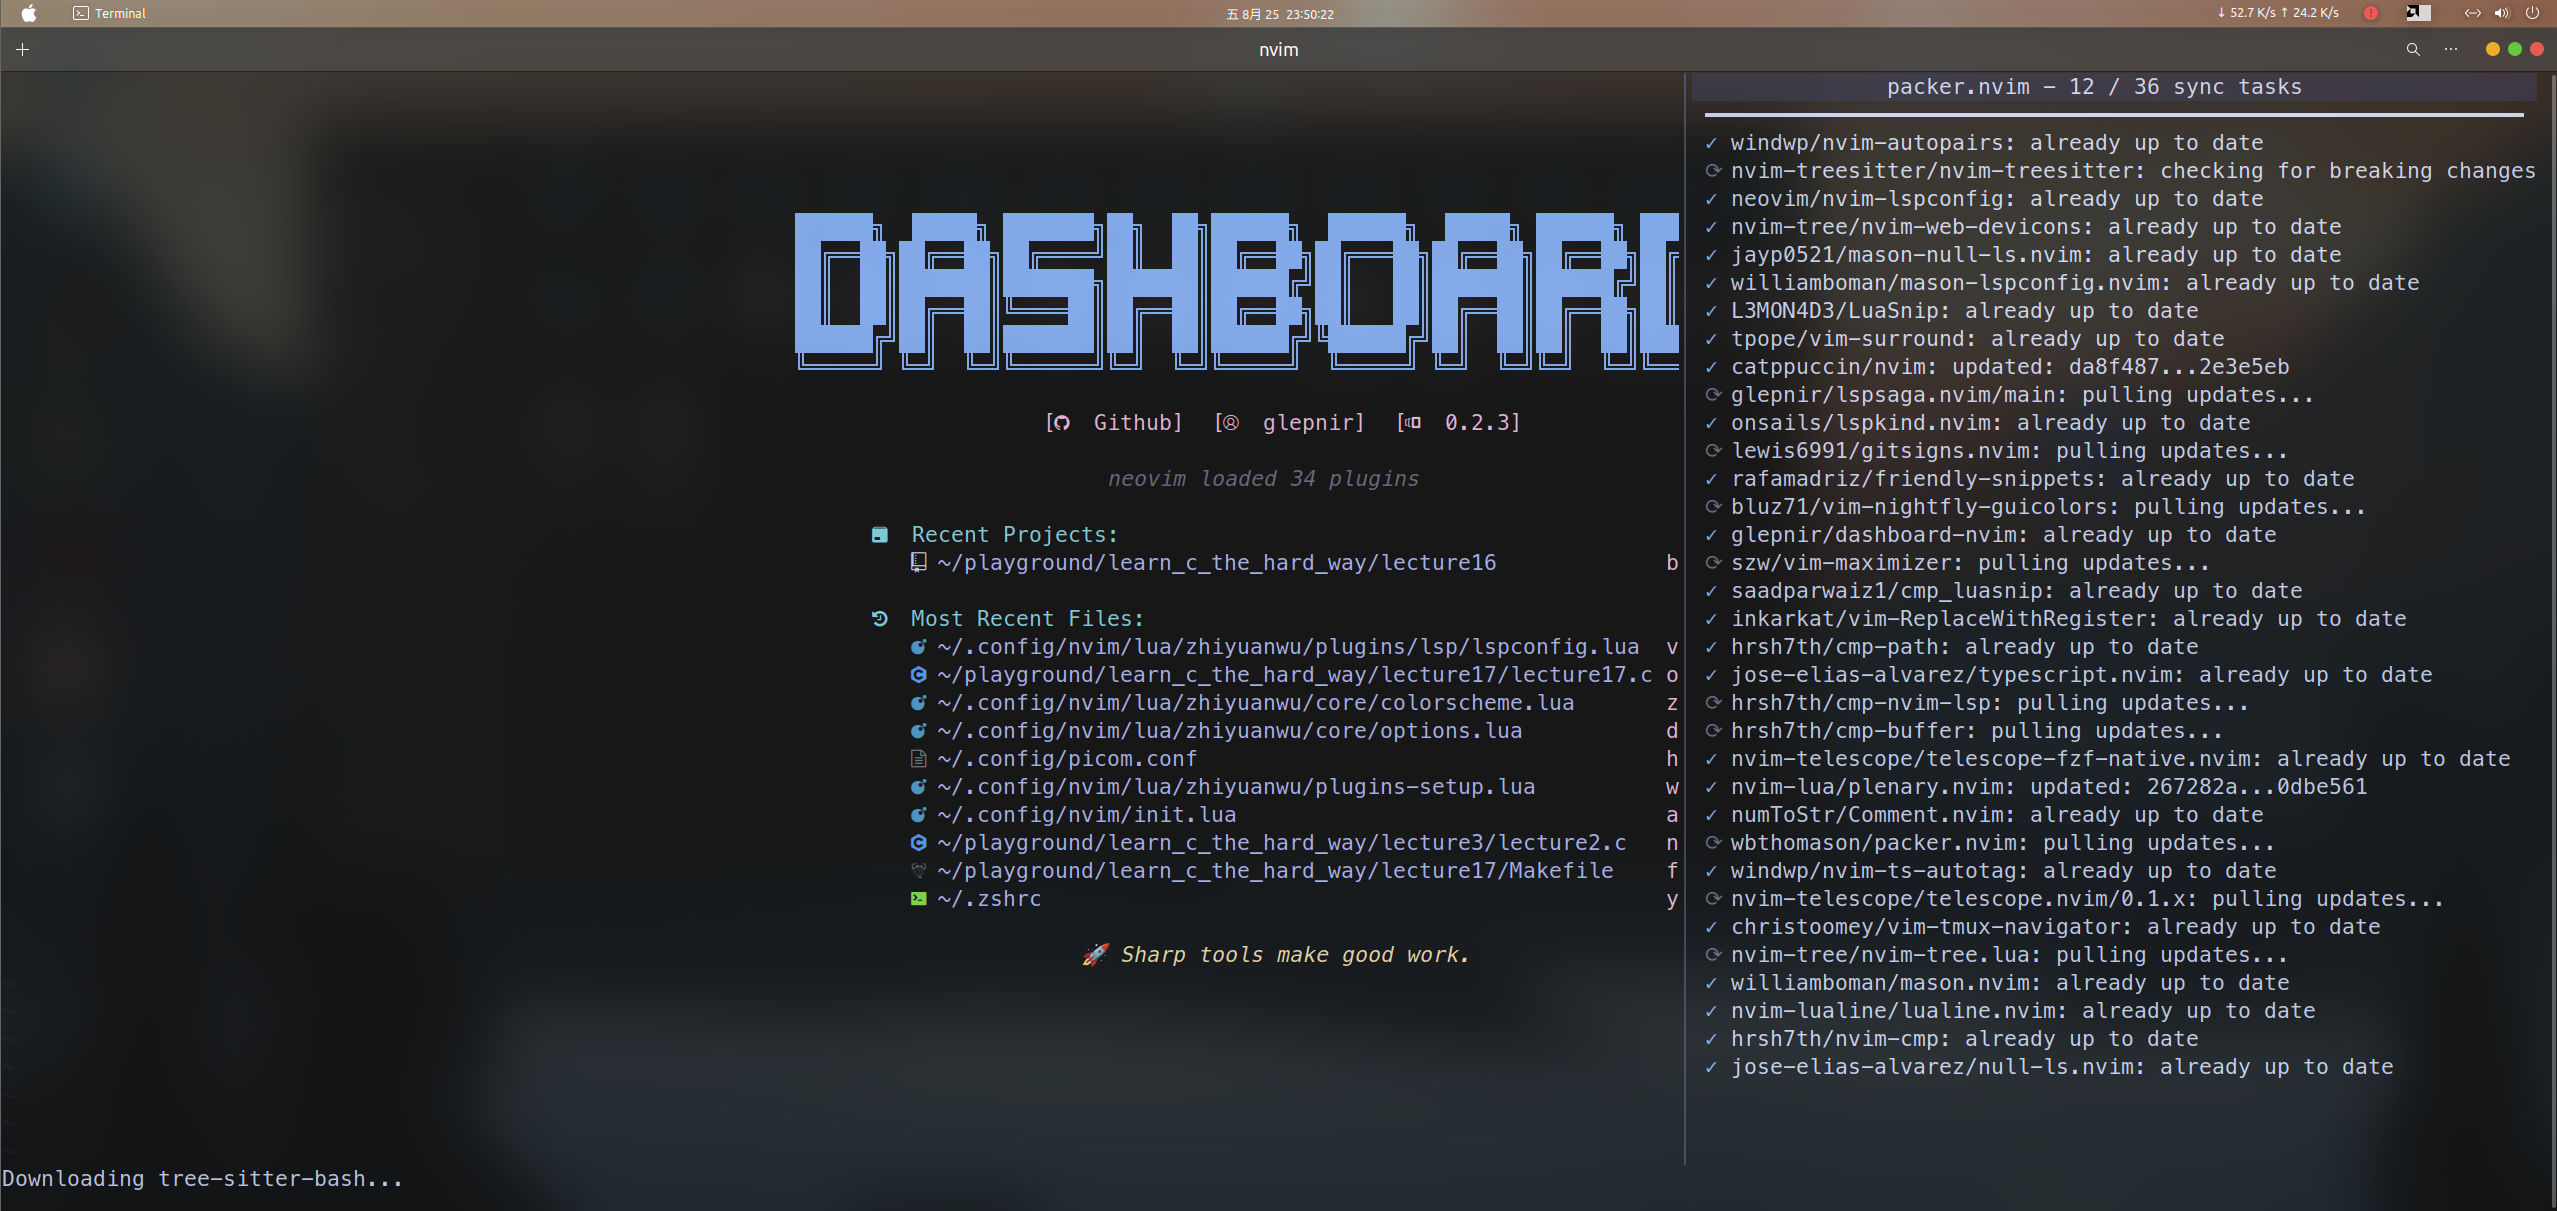
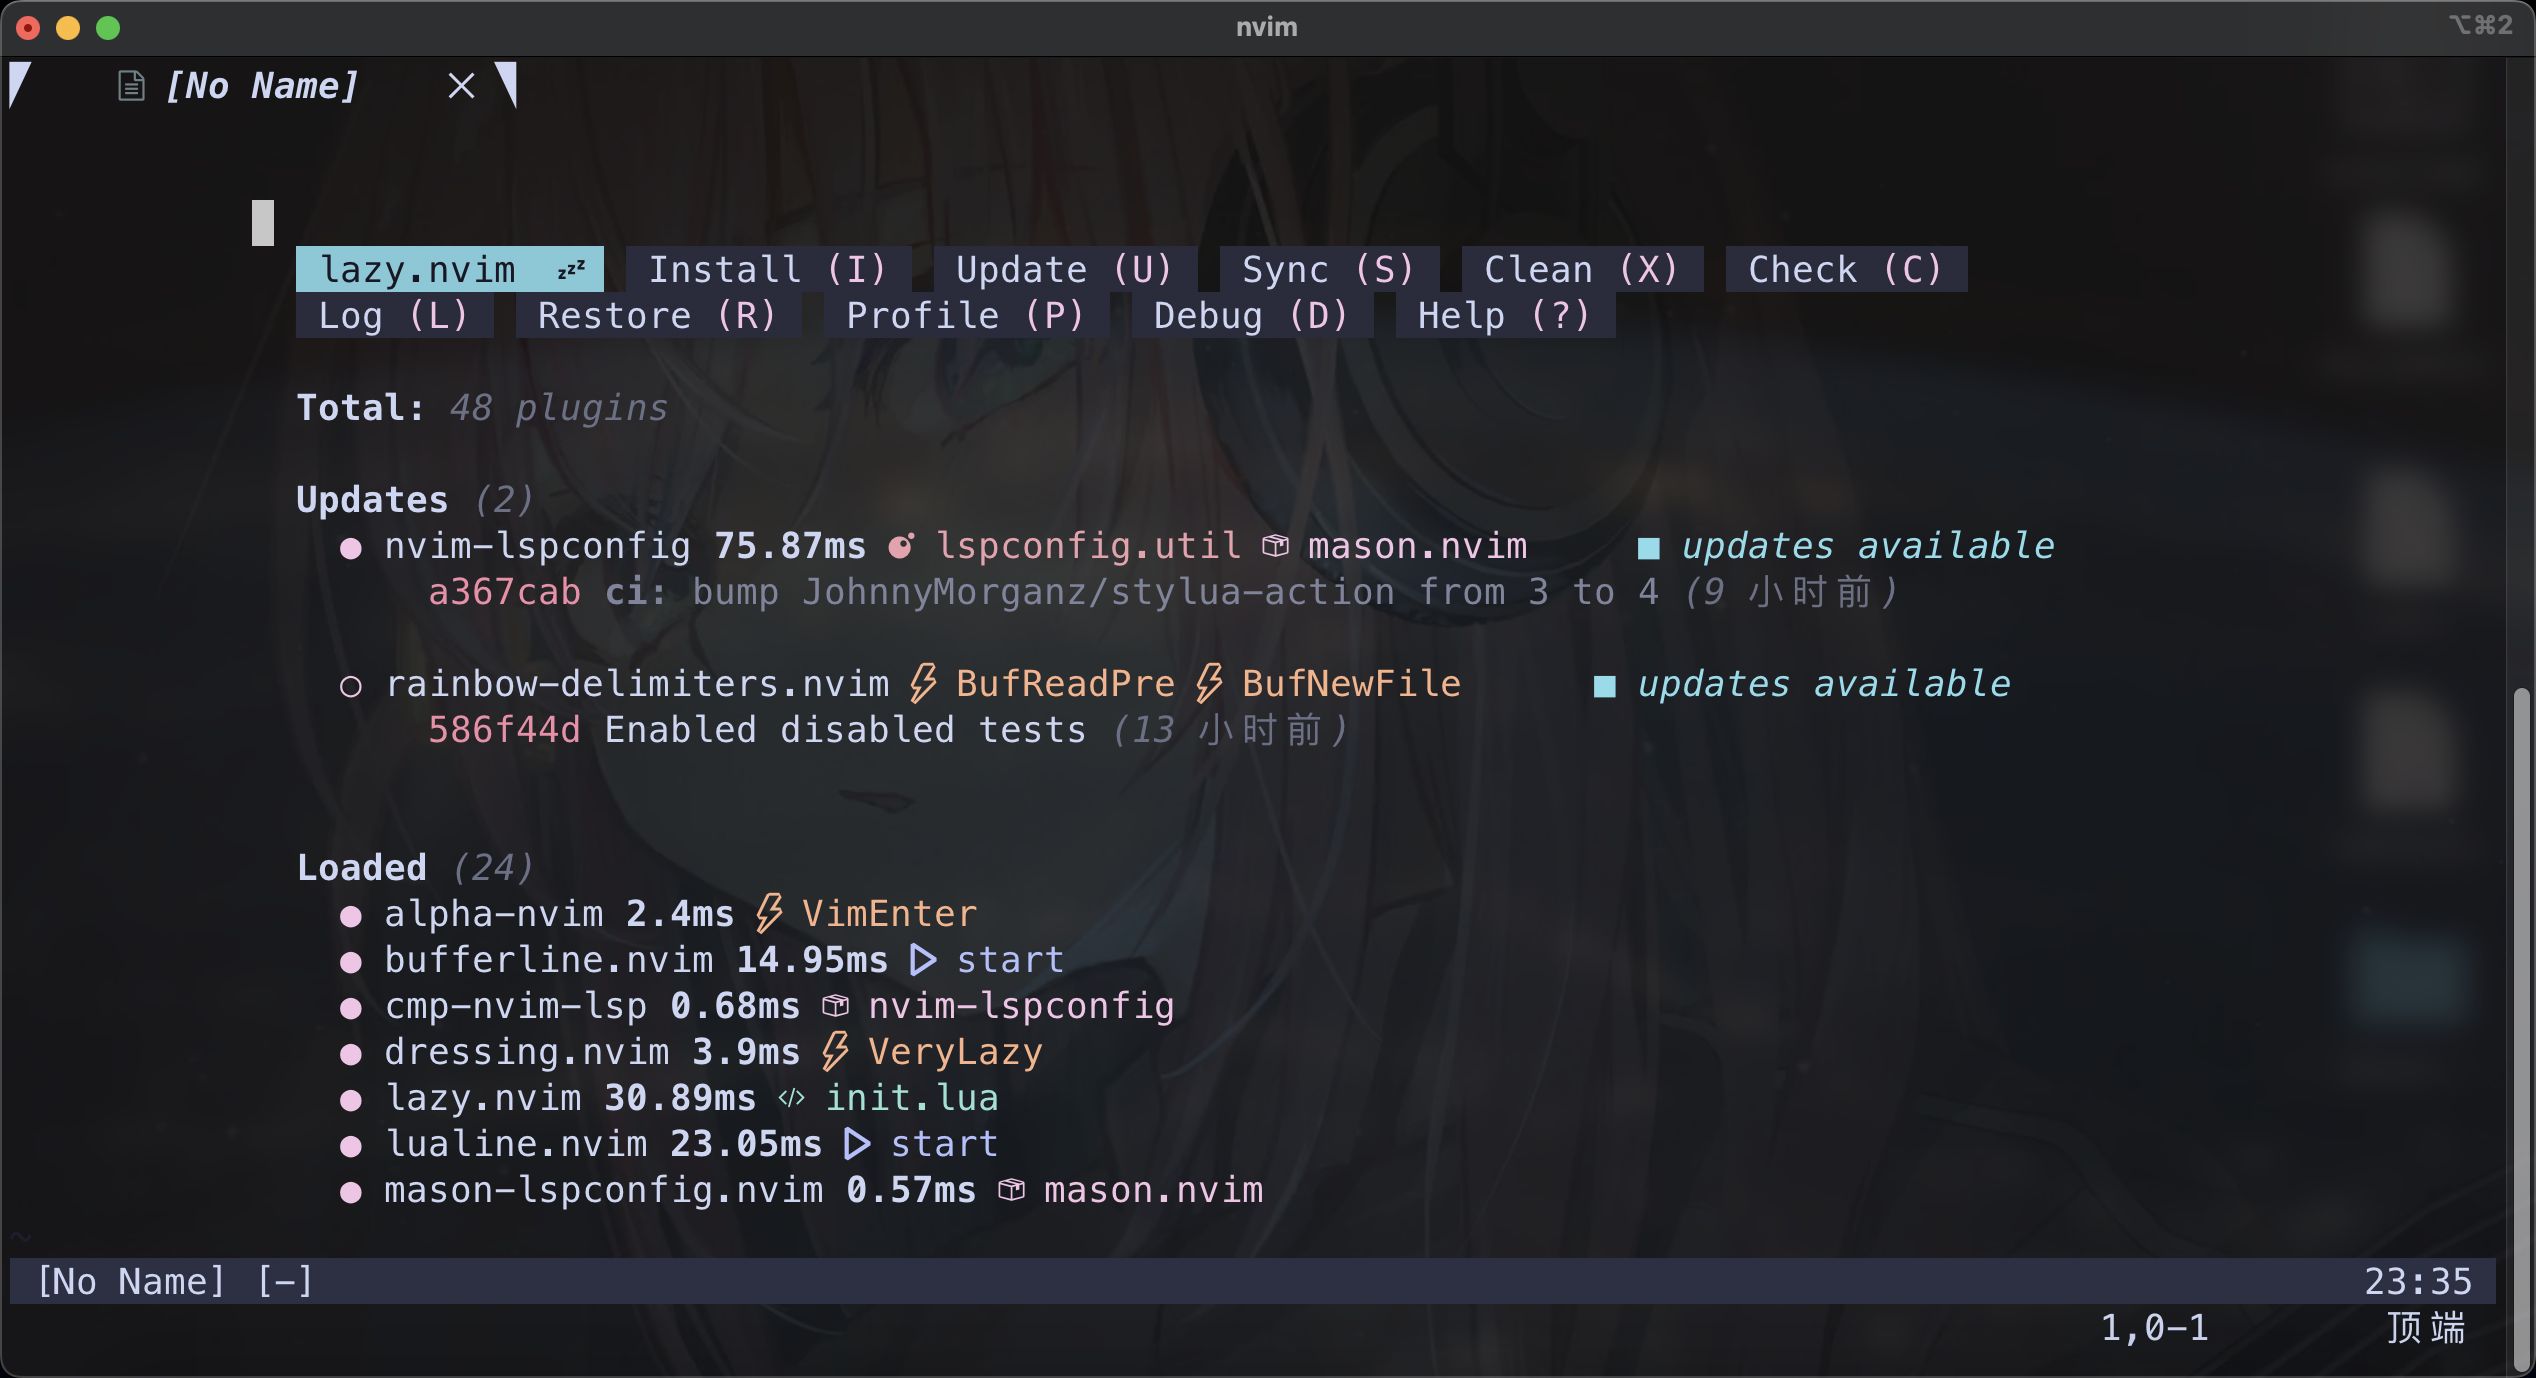
update readme file to lazy version

diff --git a/README.md b/README.md
@@ -1,7 +1,7 @@
 # 基于 Ubuntu 22.04 的命令行开发环境
 
 <aside>
-💡 本文配置基于josean-dev/dev-environment-files仓库修改而来，如果你觉得有帮助，请给他点赞
+💡 本文配置基于josean-dev/dev-environment-files仓库修改而来，如果你觉得有帮助，请别忘了也给他点赞
 
 </aside>
 
@@ -48,6 +48,11 @@
   ```bash
   sudo apt-get install xsel # or xclip
   ```
+- **Verilog&SystemVerilog**：使用SVLangserver作为.v和.sv文件的LSP，该LSP需要Verilator和Verible两个工具
+  ，请参阅以下安装方法安装二者，注意将二者安装在同一默认位置，或修改svlangserver配置指定安装目录。
+
+  https://veripool.org/guide/latest/
+  https://github.com/chipsalliance/verible
 
 - 将本仓库内容克隆到本地
 
@@ -65,6 +70,20 @@ OhMyZsh 网站：[https://ohmyz.sh/](https://ohmyz.sh/)
 
 ```bash
 sh -c "$(curl -fsSL https://raw.githubusercontent.com/ohmyzsh/ohmyzsh/master/tools/install.sh)"
+```
+
+### 安装两个zsh插件
+
+```bash
+git clone https://github.com/zsh-users/zsh-autosuggestions ${ZSH_CUSTOM:-~/.oh-my-zsh/custom}/plugins/zsh-autosuggestions
+
+git clone https://github.com/zsh-users/zsh-syntax-highlighting.git ${ZSH_CUSTOM:-~/.oh-my-zsh/custom}/plugins/zsh-syntax-highlighting
+```
+
+### 安装zsh主题powerlevel10k
+
+```bash
+git clone --depth=1 https://github.com/romkatv/powerlevel10k.git ${ZSH_CUSTOM:-$HOME/.oh-my-zsh/custom}/themes/powerlevel10k
 ```
 
 将本仓库中.zshrc 文件放置于~目录下即可
@@ -89,7 +108,7 @@ NeoVim 网站：[https://neovim.io/](https://neovim.io/)
 
 在\~目录下新建.config 文件夹，如果有的话则不需要新建，将本仓库中的 nvim 文件夹放置于\~ /.config 目录下即可。
 
-启动 nvim，使用命令:PackerSync 更新插件
+启动 nvim，若Lazy没有自动弹出可以使用:Lazy命令打开，使用命令Shift S更新插件。
 
 ![Untitled](IMAGE/Untitled%201.png)
 
@@ -105,6 +124,12 @@ NeoVim 网站：[https://neovim.io/](https://neovim.io/)
 
 ```bash
 sudo apt-get install tmux
+```
+
+### 安装tmux plugin 管理器
+
+```bash
+https://github.com/tmux-plugins/tpm
 ```
 
 ### 使用配置文件
@@ -125,6 +150,6 @@ sudo apt-get install tmux
 
 # 3. 下一步工作
 
-- [ ] 缩短 Nvim 启动时间至 100ms 以内（目前为 250ms 左右）
-- [ ] 选定一个 DashBoard 图案
-- [ ] 将命令行以及部分语言的调试器集成进来
+- [x] 缩短 Nvim 启动时间至 100ms 以内,目前为 250ms 左右（CPU: 5800X)（2024.2.13使用lazy包管理器+懒加载方案实现）
+- [x] 选定一个 DashBoard 图案（2024.2.13使用alpha-nvim实现）
+- [x] 将命令行以及部分语言的调试器集成进来（2024.2.13使用toggle-term实现）
